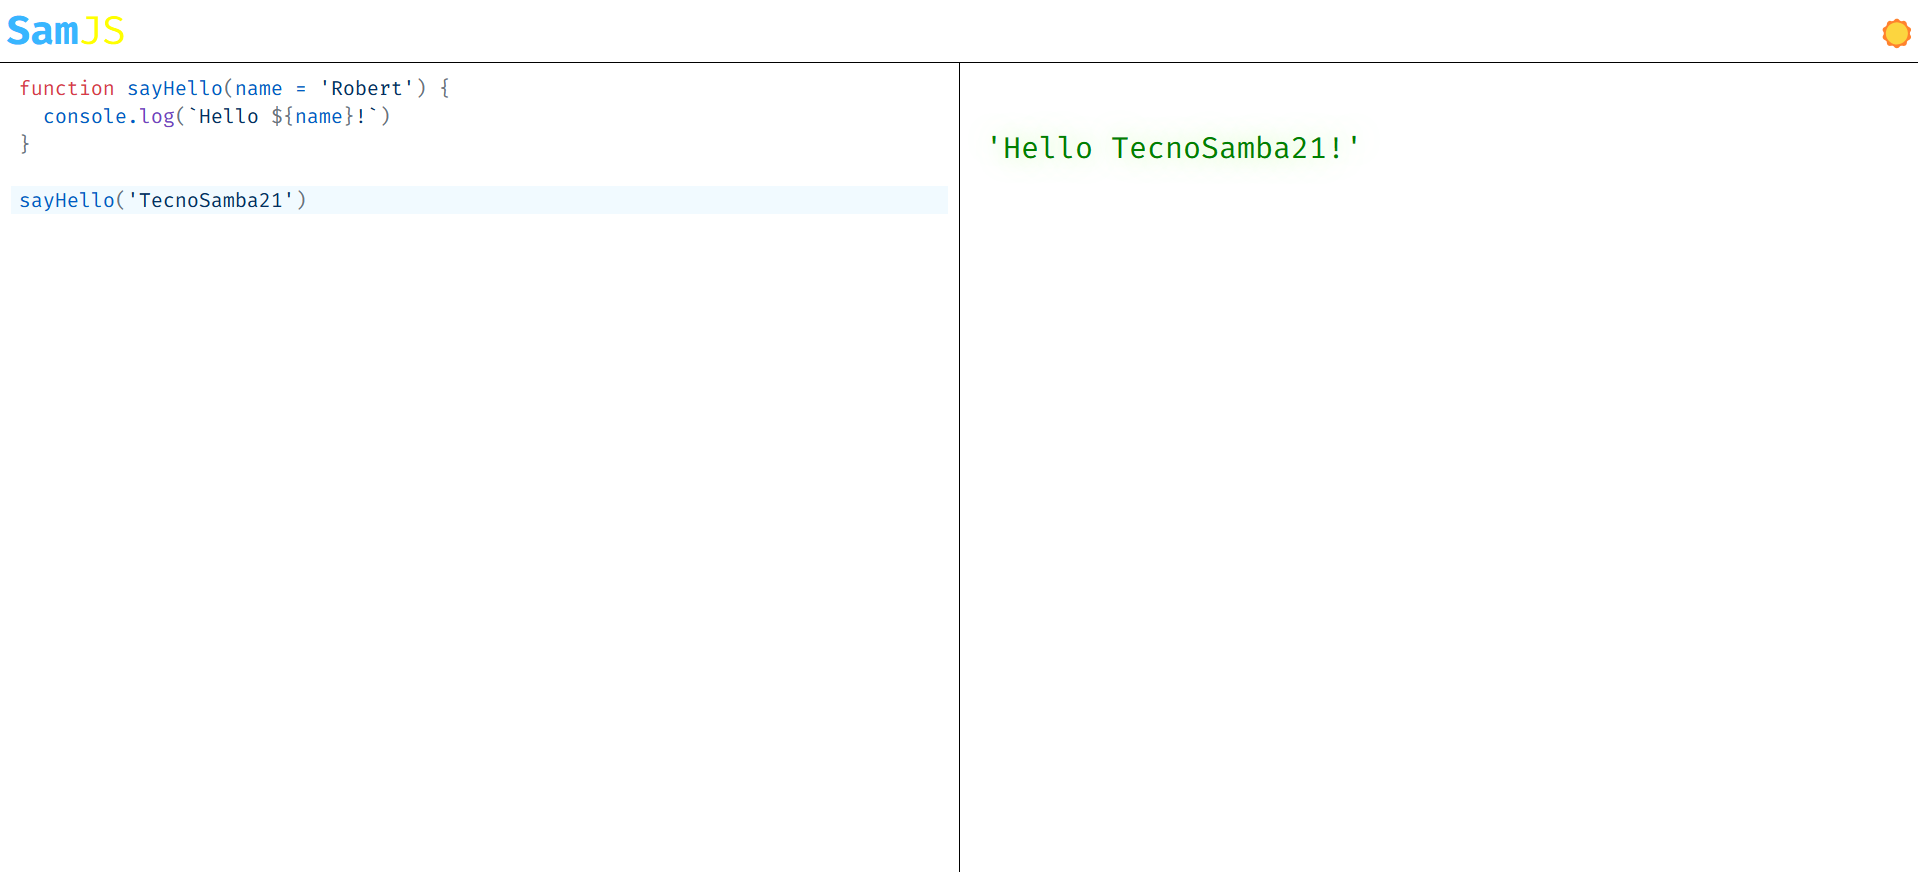
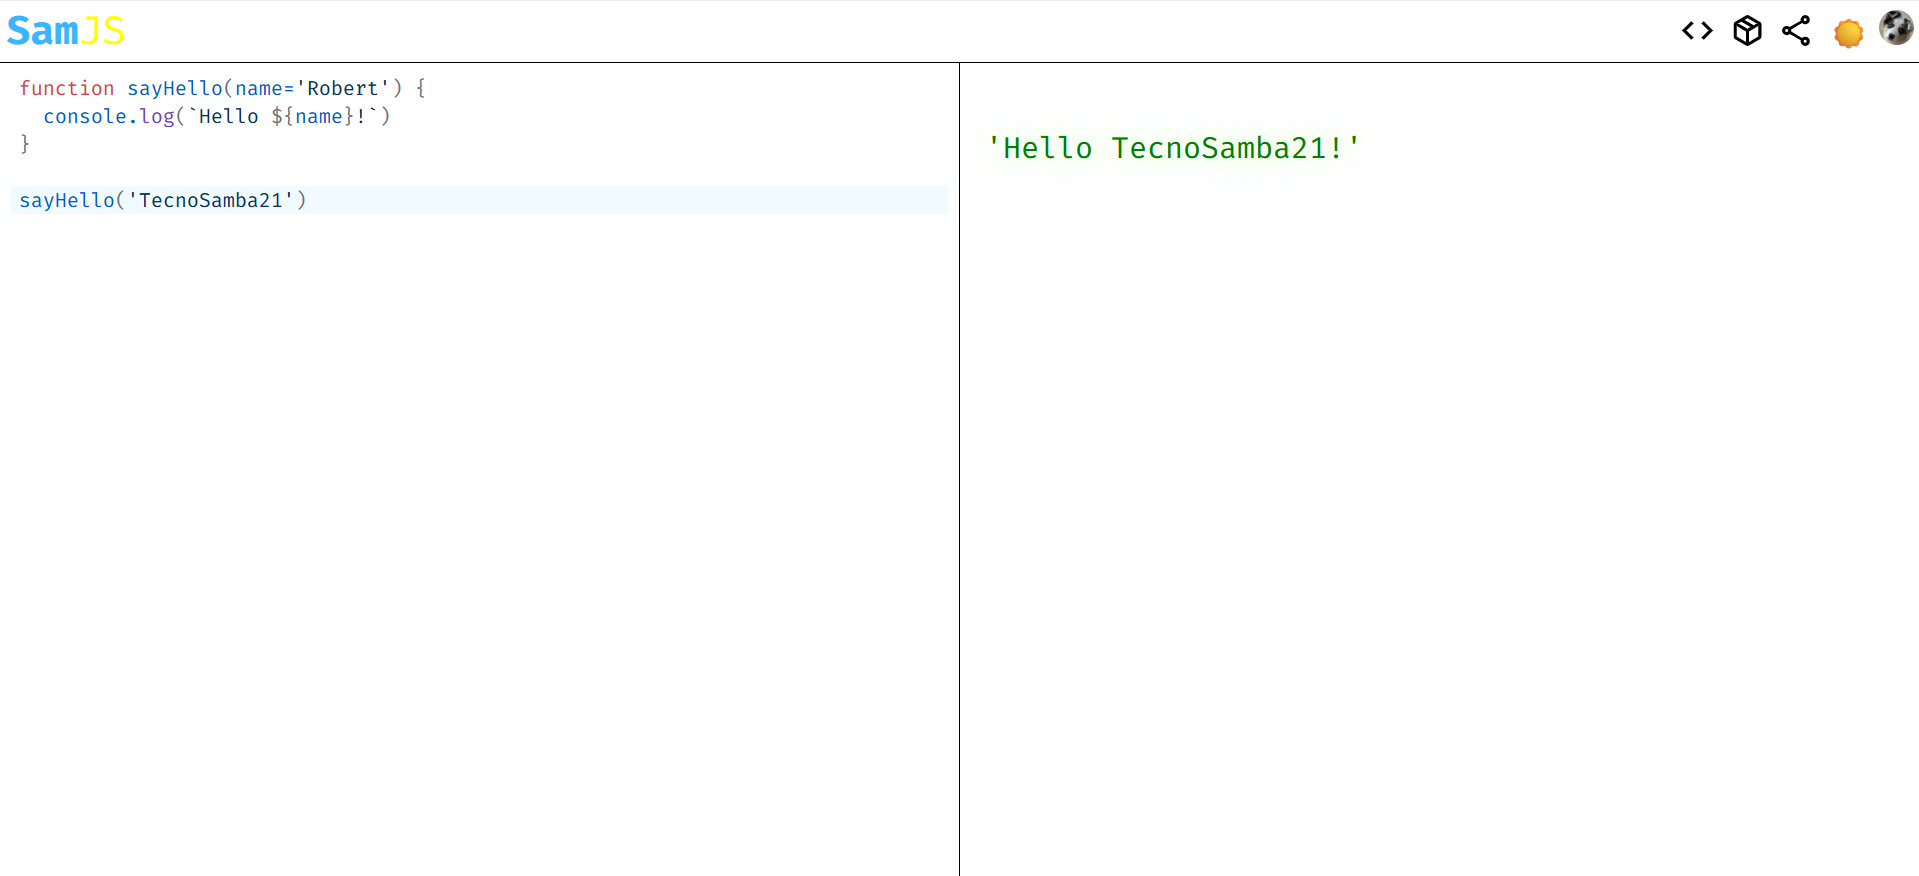
Updating the README.md file 📗

diff --git a/README.md b/README.md
@@ -18,6 +18,12 @@ testing and prototyping your JS code.
   - [Change the theme](#change-the-theme)
     - [Dark mode](#dark-mode)
     - [Light mode](#light-mode)
+  - [Search packages](#search-packages)
+  - [Share your code](#share-your-code)
+  - [Account](#account)
+    - [Creating an account](#creating-an-account)
+  - [Managing your account](#managing-your-account)
+  - [Save code snippets](#save-code-snippets)
 
 </details>
 <br>
@@ -30,6 +36,9 @@ testing and prototyping your JS code.
 - **Async functions** like `fetch` or your custom ones
 - **Import libraries** using the `require` method
 - **Code autocomplanation** while you type
+- **Package searching** with access to all npm
+- **Share your code** by a url
+- **Save code snippets** if you log in
 
 ## Import modules
 
@@ -102,3 +111,74 @@ You can switch between dark and light modes by pressing the theme button:
 ### Light mode
 
 ![Light mode](image-3.png)
+
+## Search packages
+
+By using the method `require` you can import packages very easily. And you can look for them easily as well!
+
+Just press the package searching button and a dialog will be displayed:
+
+![Package Saecrhing](./PackageSearching.png)
+
+## Share your code
+
+Do you want to show your code to your friends or team? Just copy the shareable url and send it to them.
+
+![Share your code](./ShareCode.png)
+
+## Account
+
+SamJS has a **completely free** account system that allows you to save your code in snippets. It uses *[Clerk](https://clerk.com)* for the authentication and *[Supabase](https://supabase.com)* for the code storage.
+
+### Creating an account
+
+For creating an account press the *Log In* button:
+
+![Create an account](./CreateAnAccountButton.png)
+
+You will be redirected to a Log In page. Press the *Sign Up* link:
+
+![Create an account](./CreateAnAccountLink.png)
+
+When clicked, choose one of the three account options:
+
+- **Github**
+- **Google**
+- **Email** (you will have to confirm the email adress)
+
+![alt text](./CreateAnAccountChooseAnOption.png)
+
+## Managing your account
+
+Press the account button (your account avatar) and then *Manage account*:
+
+![Manage your account](./ManageYourAccountButton.png)
+
+When pressed, you will see a dialog where you can change your account settings:
+
+![Manage your account dialog](./ManageYourAccountDialog.png)
+
+## Save code snippets
+
+> [!NOTE]
+> You must be **logged in** in order yo use this function, otherwise the access button will be disabled. Also keep in mind that there is a limit of four snippets per account for ensuring everybody to have free space for their snippets.
+
+Press the *code snippets* button and then *Save current code* for saving the code of the editor as a snippet.
+
+![Code snippets](./CodeSnippetsSave.png)
+
+When it is uploaded a `section` will appear with the first line of the saved code:
+
+![When saved](./CodeSnippetsSaved.png)
+
+If you hover the `section` element two buttons will appear:
+
+- **Add to the current code**: for adding the content of the snippet to the editor.
+- **Remove snippet**: for removing the snippet from the list.
+
+Also, if you click the `section` the code of the editor will be replaced by the content of the snippet.
+
+![Snippet's buttons](./CodeSnippetsButtons.png)
+
+> [!TIP]
+> For adding a title to the snippet add a comment at the beginning of your code with it
